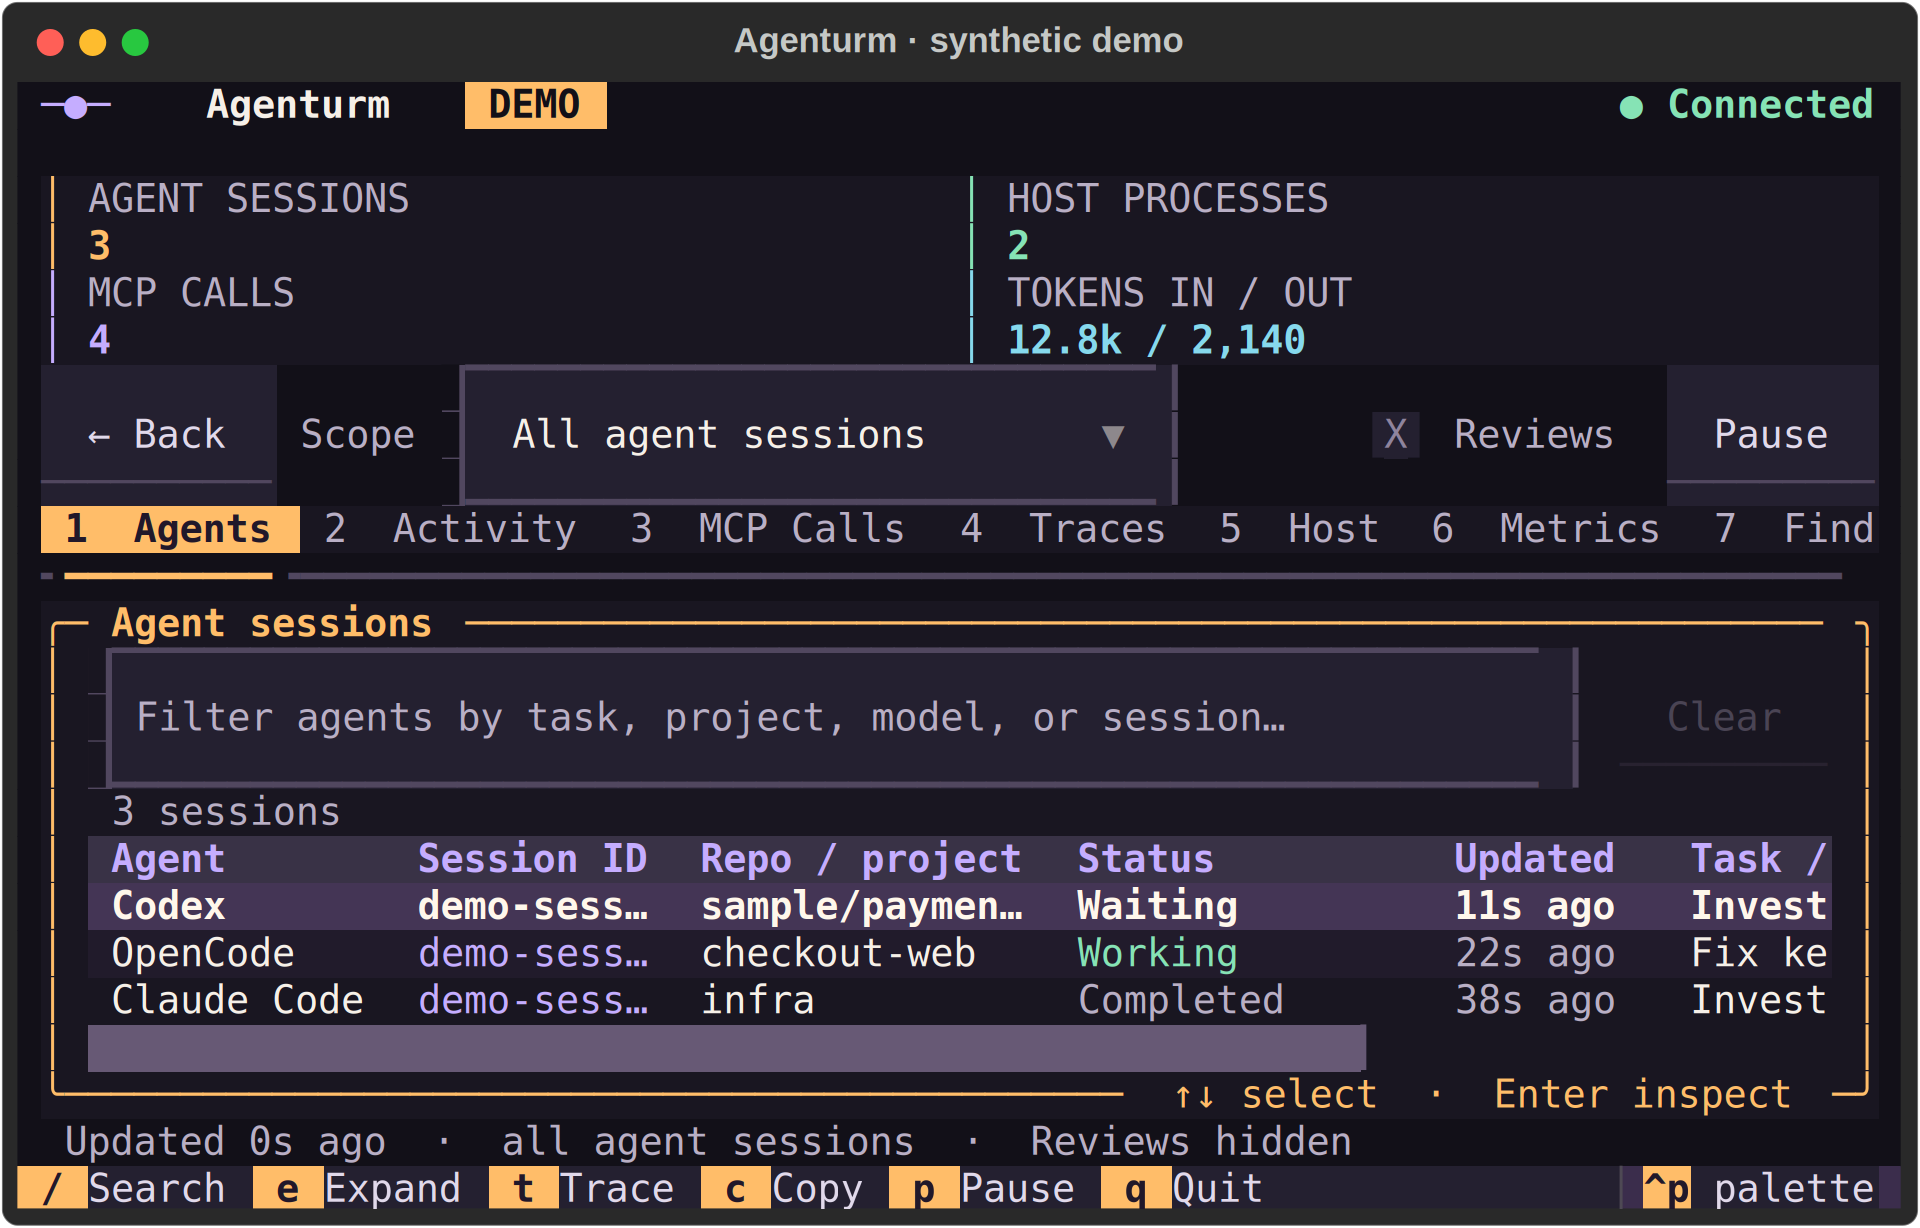
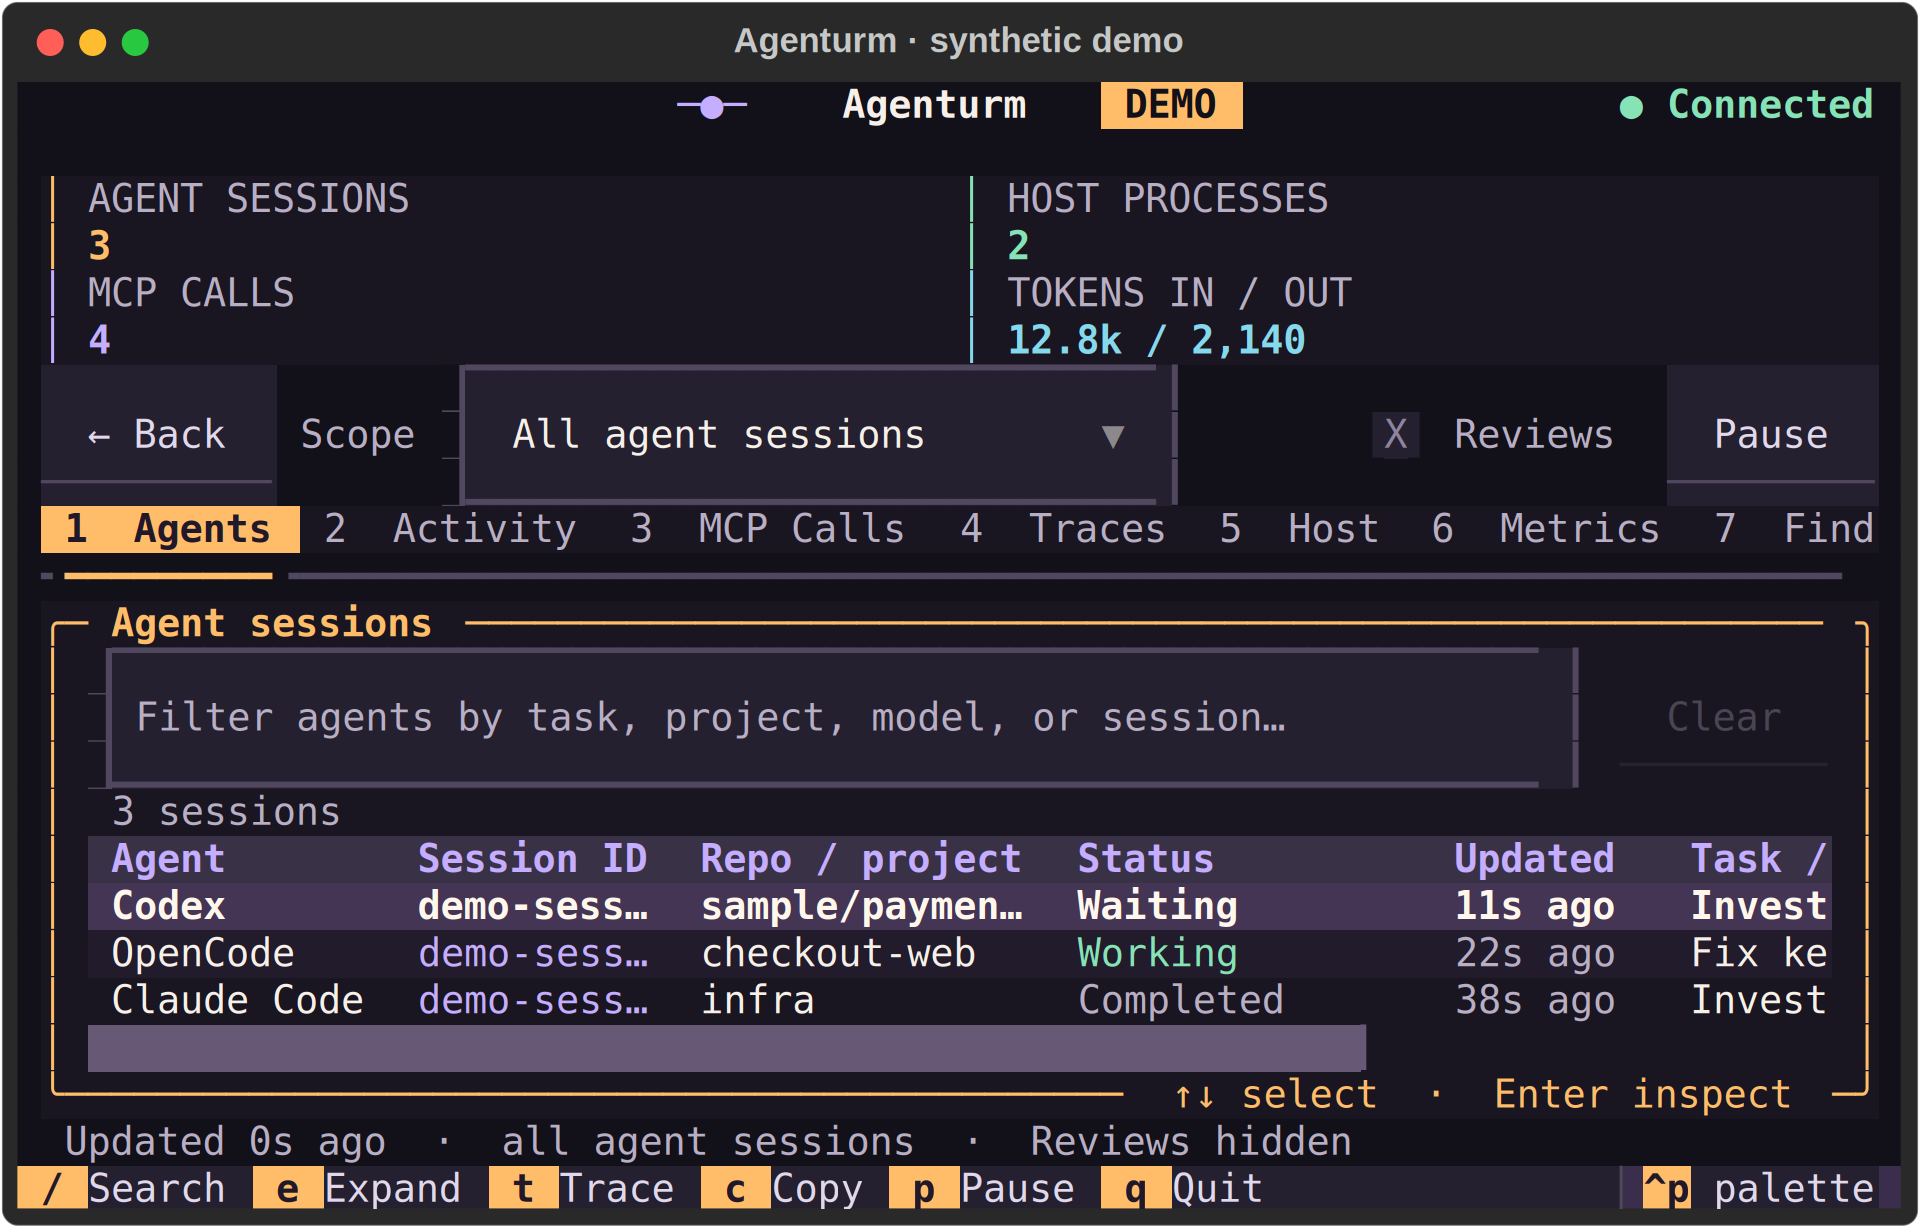
Center the masthead lockup on wide terminals
Place the tower, wordmark, tagline, and DEMO badge in a centered grid
column, keep the connection status pinned to the right edge, and cover
the layout with a regression test. Regenerate screenshots and the README
animation.

diff --git a/observatory/terminal_ui.py b/observatory/terminal_ui.py
@@ -644,10 +644,11 @@ class ObservatoryApp(App):
     Screen { background: $agent-canvas; color: $agent-text; }
     Screen > .screen--selection { background: $agent-selection; color: $agent-on-selection; }
     * { scrollbar-color: $agent-scrollbar; scrollbar-color-hover: $agent-secondary; scrollbar-color-active: $agent-primary; scrollbar-background: $agent-surface; scrollbar-background-hover: $agent-surface; scrollbar-background-active: $agent-surface; }
-    #masthead { height: 6; padding: 0 2; align-vertical: middle; background: $agent-canvas; border-bottom: solid $agent-border-subtle; }
+    #masthead { layout: grid; grid-size: 3; grid-columns: 1fr auto 1fr; grid-rows: 5; height: 6; padding: 0 2; align-vertical: middle; background: $agent-canvas; border-bottom: solid $agent-border-subtle; }
+    #brand-lockup { width: auto; height: 5; align-vertical: middle; }
     #tower { width: 5; height: 5; margin-right: 2; }
-    #brand { width: 1fr; height: 1; margin-top: 2; color: $agent-text; text-wrap: nowrap; }
-    #connection { width: auto; max-width: 50%; height: 1; margin-top: 2; color: $agent-success; text-align: right; text-wrap: nowrap; text-overflow: ellipsis; }
+    #brand { width: auto; height: 1; color: $agent-text; text-wrap: nowrap; }
+    #connection { width: 100%; height: 1; color: $agent-success; text-align: right; text-wrap: nowrap; text-overflow: ellipsis; }
     #summary { height: 3; margin: 1 2; grid-size: 4; grid-columns: 1fr; grid-rows: 3; }
     .stat { height: 3; min-width: 0; border-left: solid $agent-border-subtle; background: $agent-surface; padding: 0 2; text-wrap: nowrap; text-overflow: ellipsis; }
     #stat-sessions { border-left: solid $agent-primary; }
@@ -748,9 +749,9 @@ class ObservatoryApp(App):
     .narrow .list { width: 100%; height: 1fr; margin-right: 0; margin-bottom: 1; }
     .narrow .detail, .narrow #trace-detail { width: 100%; height: 1fr; }
     .small #summary { height: 6; grid-size: 2; }
-    .small #connection { max-width: 40%; }
     .small #pause { width: 9; }
-    .compact #masthead { height: 1; border-bottom: none; }
+    .compact #masthead { height: 1; grid-rows: 1; border-bottom: none; }
+    .compact #brand-lockup { height: 1; }
     .compact #tower { height: 1; }
     .compact #brand, .compact #connection { margin-top: 0; }
     .compact #summary { height: 2; margin: 1 1 0 1; grid-rows: 2; }
@@ -842,8 +843,10 @@ class ObservatoryApp(App):
 
     def compose(self)->ComposeResult:
         with Horizontal(id='masthead'):
-            yield Static(tower_mark(), id='tower')
-            yield Static(masthead(), id='brand')
+            yield Static('', id='masthead-left')
+            with Horizontal(id='brand-lockup'):
+                yield Static(tower_mark(), id='tower')
+                yield Static(masthead(), id='brand')
             yield Static('○ Connecting',id='connection',markup=False)
         with Grid(id='summary'):
             for name in ('sessions','processes','mcp-count','usage'):

diff --git a/tests/test_terminal_branding.py b/tests/test_terminal_branding.py
@@ -25,6 +25,20 @@ class BrandingTest(unittest.IsolatedAsyncioTestCase):
                 self.assertLessEqual(tower.region.right, brand.region.x)
                 self.assertEqual(tower.size.height, 1 if size[1] < 36 else 5)
 
+    async def test_masthead_lockup_is_centered(self):
+        app = ObservatoryApp(ManualFeed())
+        async with app.run_test(size=(200, 50)) as pilot:
+            for width, height in ((200, 50), (120, 40)):
+                await pilot.resize_terminal(width, height)
+                await pilot.pause()
+                masthead = app.query_one('#masthead')
+                lockup = app.query_one('#brand-lockup')
+                self.assertAlmostEqual(
+                    lockup.region.x + lockup.region.width / 2,
+                    masthead.region.x + masthead.region.width / 2, delta=2)
+                connection = app.query_one('#connection')
+                self.assertGreaterEqual(connection.region.right, masthead.region.right - 3)
+
     async def test_summary_and_controls_fit_without_clipping(self):
         feed = ManualFeed()
         feed.api.endpoint = 'http://127.0.0.1:4318/' + 'long-endpoint/' * 12

diff --git a/docs/branding.md b/docs/branding.md
@@ -46,7 +46,8 @@ visible through borders and selected rows. The identity is static: no flashing
 logo or decorative loading animation. The terminal uses a five-column, five-row
 block-and-line tower in its own bounded widget beside a bold, single-line
 **Agenturm** wordmark, a slim divider, and the uppercase tagline. Demo mode adds
-a filled amber **DEMO** badge. Short terminals use a one-line mark and drop the
+a filled amber **DEMO** badge. The lockup is centered horizontally, while the
+connection status stays at the right edge. Short terminals use a one-line mark and drop the
 tagline. No image protocols, emoji rendering, or Nerd
 Font is required. Below 100 columns, summary cards form two rows; longer explanations
 live in tooltips rather than running off the edge of a card.
